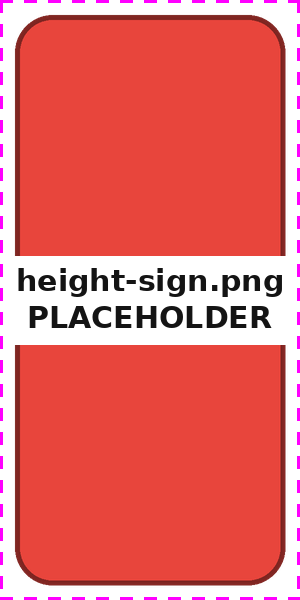
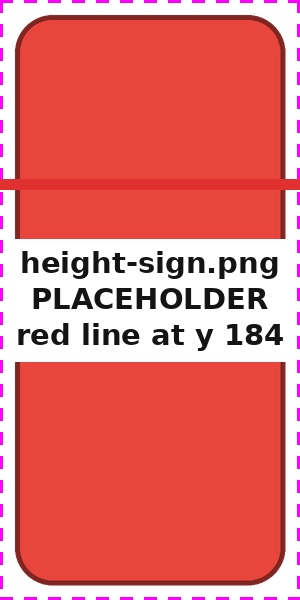
ch13: Becca's sign no hop and no Tap to go, hint and wrong-move lines, dinner glows only the active slot, height line drawn on the placeholder sign
Claude-Session: https://claude.ai/code/session_012fRRLifmh34TDDfFC1t9mF

Changed region(s): [[0.03, 0.39, 0.96, 0.63], [0.93, 0.3, 1.0, 0.33], [0.0, 0.3, 0.09, 0.33]]

diff --git a/tools/make_chapter_placeholders.py b/tools/make_chapter_placeholders.py
@@ -139,6 +139,9 @@ def draw(entry: dict, dst: Path) -> None:
     img = img.resize((w, h), Image.LANCZOS)
     d = ImageDraw.Draw(img)
     _dashed_border(d, w, h, _ink(rgb) if opaque else (255, 0, 255))  # magenta: shows on any scene
+    for ln in e.get("lines", []):  # optional full-width marker lines, e.g. a height sign's red line
+        y = int(ln["y"])
+        d.rectangle((0, y - int(ln.get("width", 6)) // 2, w, y + int(ln.get("width", 6)) // 2), fill=_rgb(ln.get("color", "#e03030")))
     _caption(d, w, h, e)
     dst.parent.mkdir(parents=True, exist_ok=True)
     if opaque:
